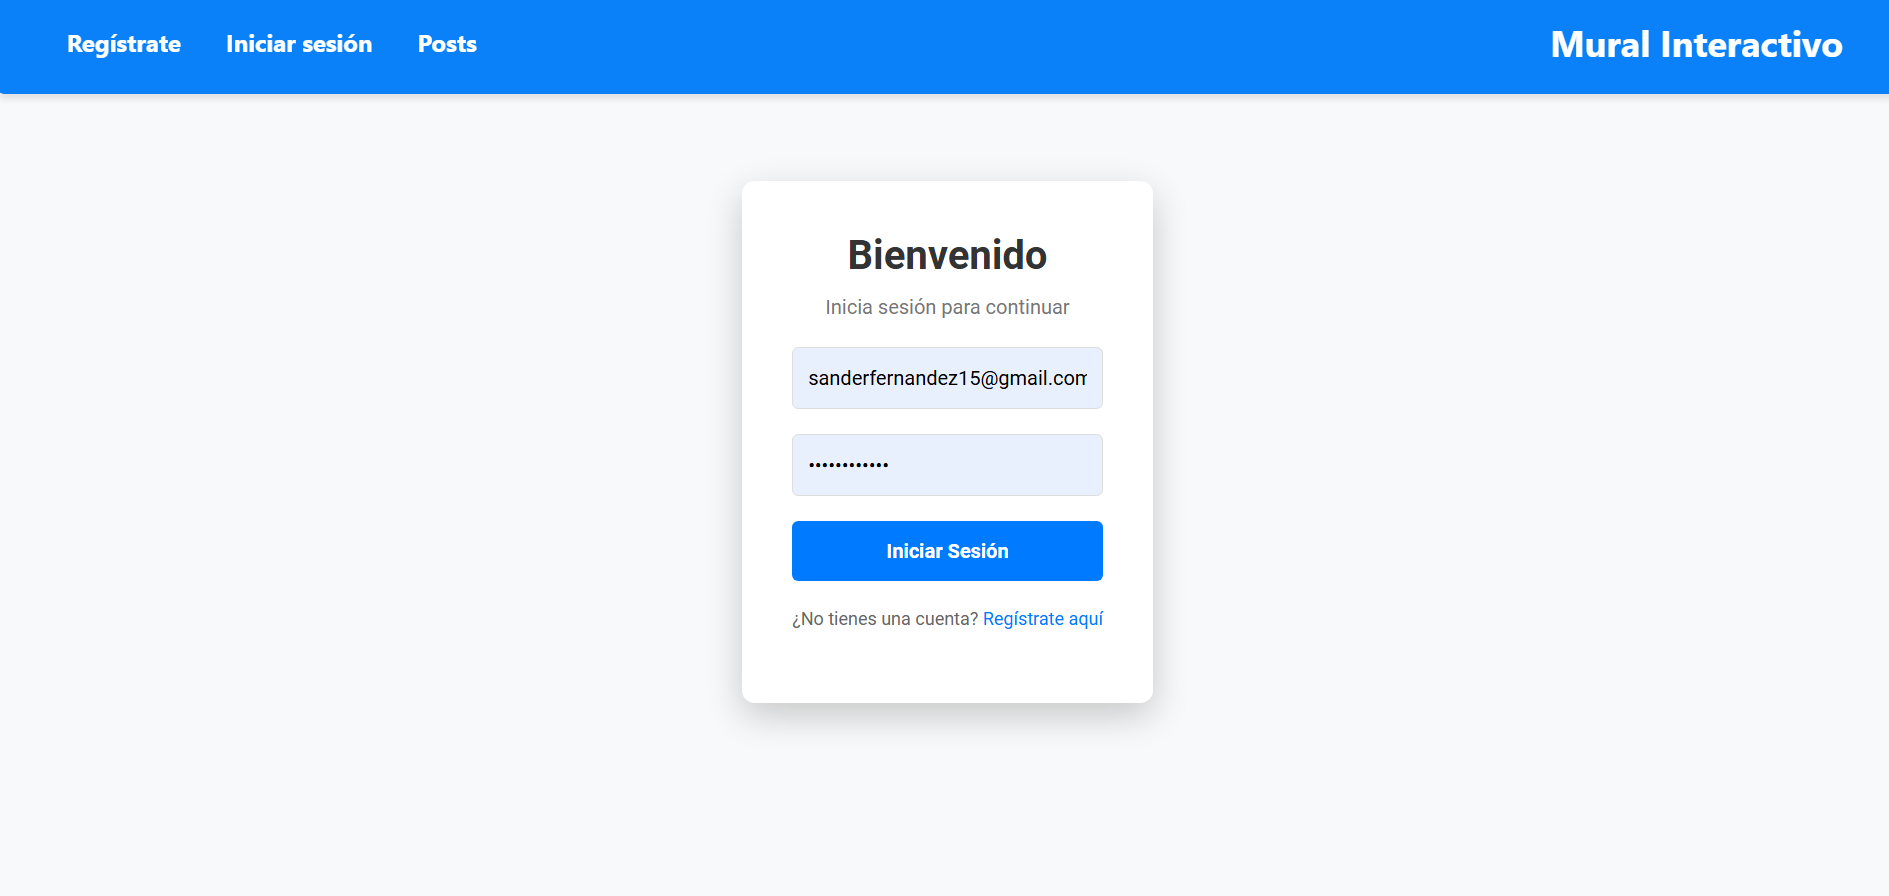
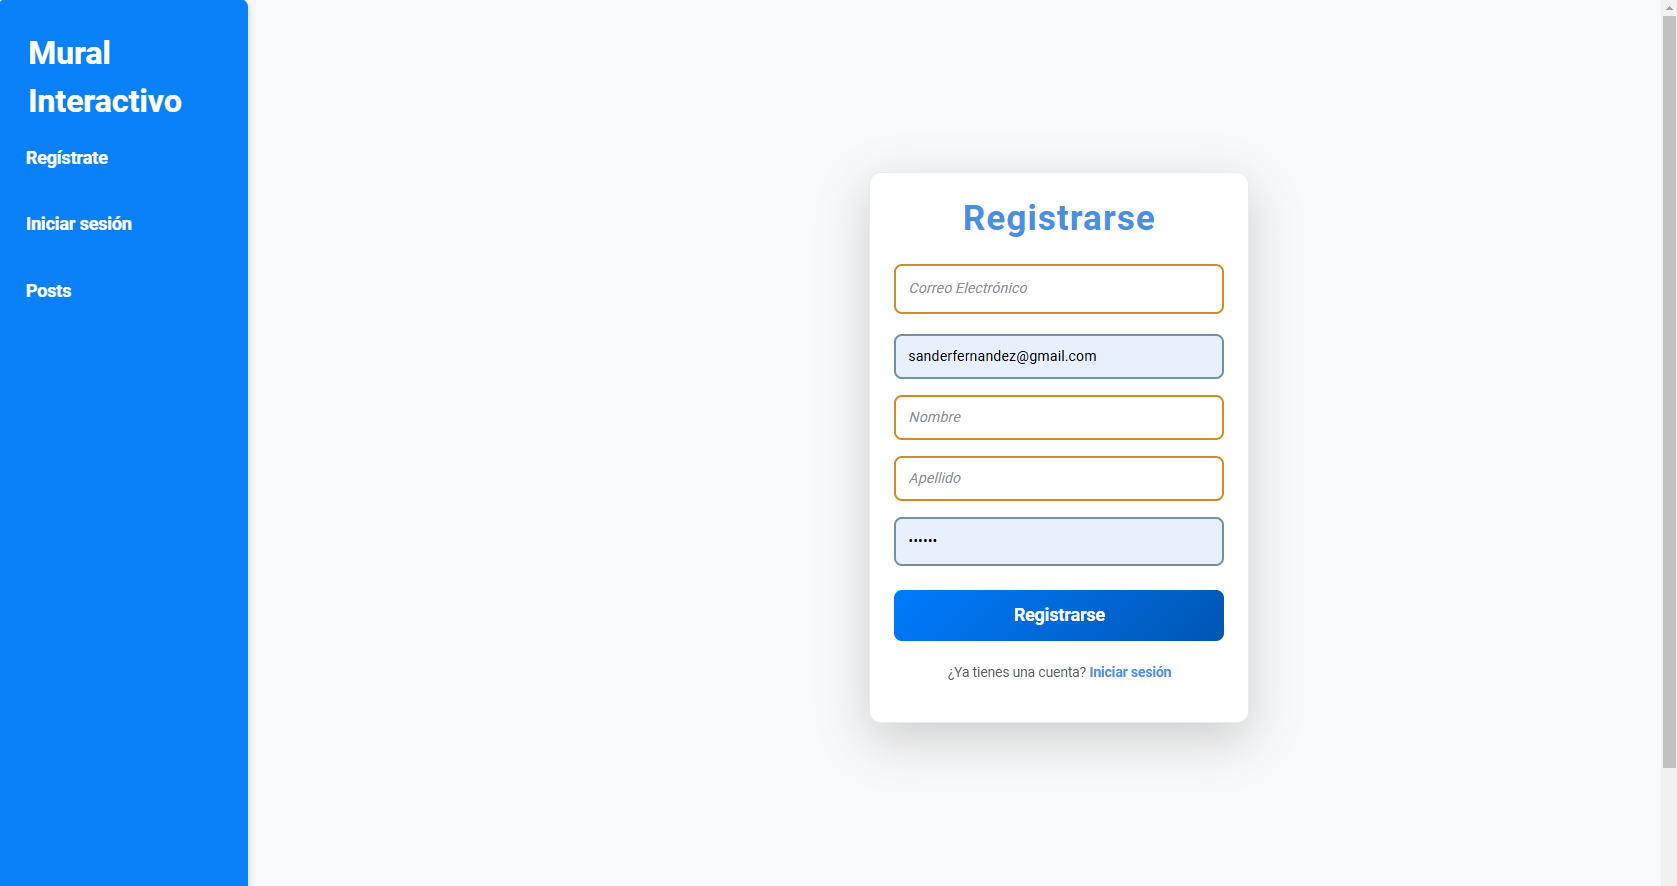
Second commit

Changed region(s): [[0.0, 0.0, 1.0, 1.0], [0.4031, 0.2133, 0.7442, 0.8533], [0.4341, 0.5181, 0.4651, 0.5485]]

diff --git a/src/App.js b/src/App.js
@@ -34,44 +34,45 @@ const App = () => {
   return (
     <div className="container-fluid mt-4">
       <div className="row">
-        <div className="col-2">
-          <nav className="navbar navbar-expand-lg navbar-dark bg-dark flex-column">
-            <Link className="navbar-brand" to="/">Mural Interactivo</Link>
-            <ul className="navbar-nav flex-column">
-              {user ? (
-                <>
-                  <li className="nav-item">
-                    <Link className="nav-link" to="/posts">Posts</Link>
-                  </li>
-                  <li className="nav-item">
-                    <button className="btn btn-link nav-link" onClick={handleLogout}>Cerrar sesión</button>
-                  </li>
-                </>
-              ) : (
-                <>
-                  <li className="nav-item">
-                    <Link className="nav-link" to="/register">Regístrate</Link>
-                  </li>
-                  <li className="nav-item">
-                    <Link className="nav-link" to="/login">Iniciar sesión</Link>
-                  </li>
-                  <li className="nav-item">
-                    <Link className="nav-link" to="/posts">Posts</Link>
-                  </li>
-                </>
-              )}
-            </ul>
-          </nav>
-        </div>
-        <div className="col-10">
-          <Routes>
-            <Route path="/" element={<Posts />} />
-            <Route path="/register" element={!user ? <Register /> : <Posts />} />
-            <Route path="/login" element={!user ? <Login /> : <Posts />} />
-            <Route path="/posts" element={<Posts />} />
-          </Routes>
-        </div>
-      </div>
+  <div className="col-2">
+    <nav className="navbar navbar-expand-lg navbar-dark bg-dark flex-column">
+    <Link className="nav-link fs-2" to="" >Mural Interactivo</Link>
+      <ul className="navbar-nav flex-column">
+        {user ? (
+          <>
+            <li className="nav-item">
+              <Link className="nav-link" to="/posts"> Posts</Link>
+            </li>
+            <li className="nav-item">
+              <button className="btn btn-link nav-link" onClick={handleLogout}>Cerrar sesión</button>
+            </li>
+          </>
+        ) : (
+          <>
+            <li className="nav-item">
+              <Link className="nav-link" to="/register">Regístrate</Link>
+            </li>
+            <li className="nav-item">
+              <Link className="nav-link" to="/login">Iniciar sesión</Link>
+            </li>
+            <li className="nav-item">
+              <Link className="nav-link" to="/posts">Posts</Link>
+            </li>
+          </>
+        )}
+      </ul>
+    </nav>
+  </div>
+  <div className="col-10">
+    <Routes>
+      <Route path="/" element={<Posts />} />
+      <Route path="/register" element={!user ? <Register /> : <Posts />} />
+      <Route path="/login" element={!user ? <Login /> : <Posts />} />
+      <Route path="/posts" element={<Posts />} />
+    </Routes>
+  </div>
+</div>
+
     </div>
   );
 };

diff --git a/src/styles/Posts.css b/src/styles/Posts.css
@@ -1,3 +1,6 @@
+/* Importa una fuente moderna */
+@import url('https://fonts.googleapis.com/css2?family=Roboto:wght@400;700&display=swap');
+
 body {
   font-family: 'Roboto', sans-serif;
   background-color: #f8f9fa;
@@ -6,40 +9,59 @@ body {
 }
 
 /* Contenedor general */
-
-
-#FormContainer.card{
-  margin-top: 1200px;
+.container {
+  max-width: 1200px;
+  padding: 20px;
+  margin-left: -50px;
+  margin-bottom: -3550px !important;
 }
 
 /* Ajustes para el contenedor de posts */
 .posts-list {
   display: grid;
-  grid-template-columns: repeat(auto-fill, minmax(300px, 1fr));
+  grid-template-columns: repeat(auto-fit, minmax(300px, 1fr));
   gap: 20px;
-
+  margin-top: 30px;
 }
 
 /* Estilo para las tarjetas de post */
-
+.card {
+  background: #ffffff;
+  border-radius: 12px;
+  box-shadow: 0 4px 12px rgba(0, 0, 0, 0.1);
+  transition: transform 0.2s ease-in-out;
+  border: 1px solid #e9ecef;
+}
 
 .card:hover {
   transform: translateY(-5px);
 }
 
+.card-body {
+  padding: 20px;
+}
 
+/* Estilo del título */
+.card-title {
+  font-weight: bold;
+  color: #343a40;
+  margin-bottom: 10px;
+  font-size: 1.2rem;
+}
 
-
-
-
+/* Estilo del texto */
+.card-text {
+  color: #6c757d;
+  margin-bottom: 15px;
+  font-size: 1rem;
+}
 
 /* Imagenes en los posts */
 .card img {
-  
   width: 100%;
-  height: 300px;
+  height: auto;
   border-bottom: 1px solid #e9ecef;
- 
+  max-height: 200px;
   object-fit: cover;
 }
 
@@ -47,7 +69,6 @@ body {
 iframe {
   border-radius: 10px;
   margin-top: 15px;
-  height: 300px;
 }
 
 /* Estilo para el formulario */
@@ -65,9 +86,9 @@ textarea.form-control::placeholder, input.form-control::placeholder {
   font-style: italic;
 }
 
-/* Card del formulario */
+/* Formulario de creación de post */
 .card.mb-4 {
-  margin-top: 30px;
+  margin-top: 600px;
   background-color: #ffffff;
   border-radius: 12px;
   box-shadow: 0 4px 12px rgba(0, 0, 0, 0.1);
@@ -81,7 +102,6 @@ textarea.form-control::placeholder, input.form-control::placeholder {
 input[type="text"].form-control {
   font-size: 0.9rem;
   height: 45px;
-  
 }
 
 /* Estilo para el botón de publicar */
@@ -122,6 +142,19 @@ input.form-control[type="text"] {
   margin-top: 5px;
 }
 
+/* Card del formulario */
+.card.mb-4 {
+  margin-top: 30px;
+  background-color: #ffffff;
+  border-radius: 12px;
+  box-shadow: 0 4px 12px rgba(0, 0, 0, 0.1);
+}
+
+/* Estilo para el campo de YouTube */
+input.form-control {
+  font-size: 0.9rem;
+}
+
 /* Card en posts listados */
 .posts-list .card {
   border-radius: 12px;
@@ -130,5 +163,5 @@ input.form-control[type="text"] {
 
 .posts-list .card:hover {
   transform: translateY(-5px);
-  box-shadow: 0 4px 8px rgba(0, 0, 0, 0.15);
+  box-shadow: 0 4px 8px rgba(0, 0, 0, 0.15);
 }

diff --git a/src/styles/App.css b/src/styles/App.css
@@ -1,42 +1,49 @@
 .navbar {
   background-color: #0a81f8 !important;
-  padding: 15px;
-  border-radius: 5px;
+  padding: 20px;
+  border-radius: 8px;
   position: fixed;
   top: 0;
   left: 0;
-  width: 250px;  /* Ajusta el ancho de la barra lateral */
+  width: 250px; /* Ajusta el ancho de la barra lateral */
   height: 100vh; /* Asegura que ocupe toda la altura de la ventana */
   z-index: 1000;
-  box-shadow: 0px 4px 6px rgba(0, 0, 0, 0.1);
+  box-shadow: 0px 4px 8px rgba(0, 0, 0, 0.2);
+  display: flex;
+  flex-direction: column;
+  align-items: flex-start;
 }
 
 .navbar .navbar-brand {
-  font-size: 1.8rem;
+  font-size: 1.9rem;
   font-weight: bold;
   color: #FFD700;
-  margin-bottom: 20px;
+  margin-bottom: 30px; /* Aumenta el margen para separar de los links */
+  padding-left: 10px;
 }
 
 .navbar-nav {
   display: flex;
-  flex-direction: column; /* Hace que los elementos se alineen en columna */
+  flex-direction: column;
   width: 100%;
 }
 
 .navbar .nav-item {
-  margin-left: 0;
-  margin-bottom: 10px; /* Ajuste de espacio entre elementos */
+  margin-bottom: 20px; /* Ajuste de espacio entre los elementos */
 }
 
 .navbar .nav-link {
-  font-size: 1.2rem;
+  font-size: 1.1rem;
   color: #fff;
-  transition: color 0.3s ease-in-out;
+  padding: 10px;
+  transition: color 0.3s ease-in-out, padding-left 0.3s ease;
+  display: flex;
+  align-items: center;
 }
 
 .navbar .nav-link:hover {
   color: #FFD700;
+  padding-left: 20px; /* Desplaza el link a la derecha en hover */
 }
 
 button {
@@ -45,10 +52,12 @@ button {
   border-color: #FFA500;
   color: white;
   border-radius: 8px;
-  padding: 10px 20px;
+  padding: 12px 25px;
   font-size: 1.1rem;
   cursor: pointer;
   transition: background-color 0.3s ease-in-out;
+  display: flex;
+  justify-content: center;
 }
 
 button:hover {
@@ -85,6 +94,19 @@ button:disabled {
 }
 
 .col-10 {
-  margin-left: 20px; /* Añade un pequeño margen a la columna principal */
+  margin-left: 30px; /* Añade un pequeño margen a la columna principal */
 }
 
+.navbar .nav-item .btn-link {
+  color: white !important;
+  text-decoration: none;
+  font-size: 1.1rem;
+  display: block;
+  padding: 10px;
+  border: none;
+  background: transparent;
+}
+
+.navbar .nav-item .btn-link:hover {
+  color: #FFD700 !important;
+}

diff --git a/README.md b/README.md
@@ -1,17 +1,11 @@
-Proyecto final de Programacion web:
 ![alt text](image.png)
+
 ![alt text](image-1.png)
+
+
 ![alt text](image-2.png)
+
 ![alt text](image-3.png)
-![alt text](image-4.png)
-
-
-
-
-
-
-
-
 
 
 
